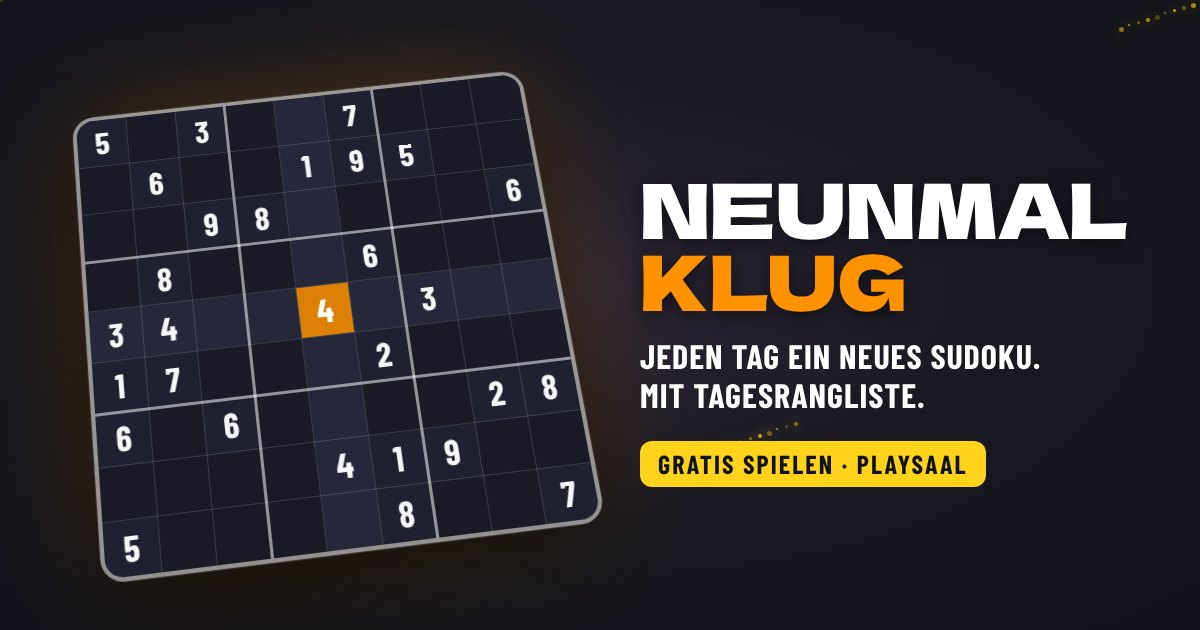
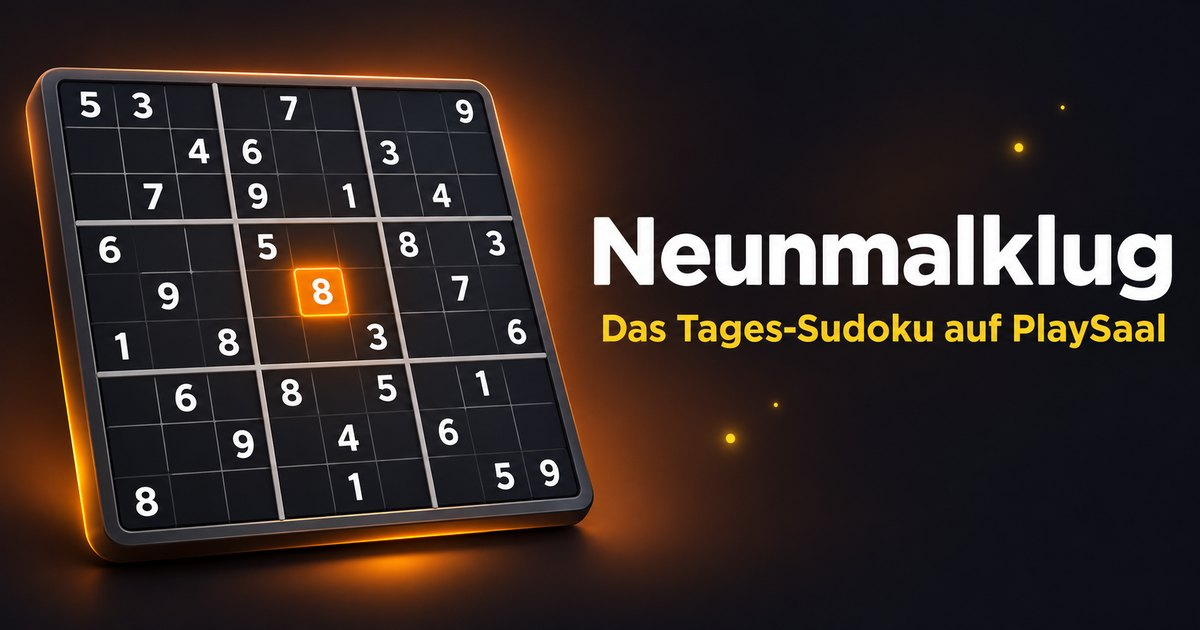
Neunmalklug: Kachel (animiert) und Teilen-Bild von ChatGPT
Kachel aus dem gelieferten GIF als animiertes WebP (720 x 720, ~160 KB),
Teilen-Vorschau aus dem gelieferten Bild mit Schriftzug (1200 x 630).
Originale unter design/neunmalklug/, Umwandlung per tools/neunmalklug-cover.mjs.

Claude-Session: https://claude.ai/code/session_015CsN6PKDukn4JUJuzNRUtf

diff --git a/public/index.html b/public/index.html
@@ -245,7 +245,7 @@
     <section class="block block-neu" id="neu" aria-labelledby="neu-titel">
       <div class="block-kopf"><h2 id="neu-titel"><svg viewBox="0 0 24 24" aria-hidden="true"><path d="M9.94 15.5A2 2 0 0 0 8.5 14.06l-6.14-1.58a.5.5 0 0 1 0-.96L8.5 9.94A2 2 0 0 0 9.94 8.5l1.58-6.14a.5.5 0 0 1 .96 0L14.06 8.5a2 2 0 0 0 1.44 1.44l6.14 1.58a.5.5 0 0 1 0 .96L15.5 14.06a2 2 0 0 0-1.44 1.44l-1.58 6.14a.5.5 0 0 1-.96 0z" fill="none" stroke="currentColor" stroke-width="2" stroke-linecap="round" stroke-linejoin="round"/><path d="M20 3v4M22 5h-4M4 17v2M5 18H3" fill="none" stroke="currentColor" stroke-width="2" stroke-linecap="round" stroke-linejoin="round"/></svg> Neu</h2><p>Neu bei PlaySaal</p></div>
       <ul class="kacheln" data-lay="neu">
-      <li class="kachel" data-slug="neunmalklug" data-kategorien="raetsel" data-rec="neunmalklug" data-name="Neunmalklug" data-arten="Sudoku,Rätsel,Logik,Tagesrangliste" data-kat="neu"><a href="/spiele/neunmalklug"><img src="/bilder/neunmalklug.webp?v=1" width="720" height="720" alt="Neunmalklug: ein Sudoku-Brett mit einem leuchtend orangen Feld" decoding="async" loading="lazy"><span class="name">Neunmalklug</span><span class="badge" title="Neu">★</span></a></li>
+      <li class="kachel" data-slug="neunmalklug" data-kategorien="raetsel" data-rec="neunmalklug" data-name="Neunmalklug" data-arten="Sudoku,Rätsel,Logik,Tagesrangliste" data-kat="neu"><a href="/spiele/neunmalklug"><img src="/bilder/neunmalklug.webp?v=2" width="720" height="720" alt="Neunmalklug: ein leuchtendes Sudoku-Brett, das mittlere Feld pulsiert orange" decoding="async" loading="lazy"><span class="name">Neunmalklug</span><span class="badge" title="Neu">★</span></a></li>
       <li class="kachel" data-slug="tuff-tuff-land" data-kategorien="aufbau,kinder" data-rec="tufftuff" data-name="Tuff-Tuff-Land" data-arten="Für Kinder,3D,Eisenbahn,Bauen" data-kat="neu"><a href="/spiele/tuff-tuff-land"><img src="/bilder/tuff-tuff-land.webp" width="720" height="720" alt="Tuff-Tuff-Land: Eine blaue Dampflok mit rotem und gelbem Wagen fährt an einem Bahnhof vorbei durch eine bunte Spielzeuglandschaft" decoding="async" loading="lazy"><span class="name">Tuff-Tuff-Land</span><span class="badge" title="Neu">★</span></a></li>
       <li class="kachel" data-slug="putt-profi" data-kategorien="geschick" data-rec="puttprofi" data-name="Putt-Profi" data-arten="3D,Minigolf,Sport,Tagesrunde" data-kat="neu"><a href="/spiele/putt-profi"><img src="/bilder/putt-profi.webp?v=1" width="720" height="720" alt="Putt-Profi: Eine weiße Golfkugel rollt auf einer Minigolfbahn mit orangefarbenen Banden auf das Loch zu, dahinter eine Windmühle" decoding="async" loading="lazy"><span class="name">Putt-Profi</span><span class="badge" title="Neu">★</span></a></li>
       <li class="kachel" data-slug="texas-holdem" data-kategorien="casino" data-rec="holdem" data-name="Texas Hold'em" data-arten="Casino,Poker,Karten,Spielgeld,Nicht für Kinder" data-kat="neu"><a href="/spiele/texas-holdem"><img src="/bilder/texas-holdem.webp?v=1" width="720" height="720" alt="Texas Hold'em: Fünf offene Karten auf grünem Filz, davor zwei Asse und Chipstapel" decoding="async" loading="lazy"><span class="name">Texas Hold'em</span><span class="badge" title="Neu">★</span></a></li>

diff --git a/public/spiele/neunmalklug.html b/public/spiele/neunmalklug.html
@@ -5,7 +5,7 @@
 <link rel="canonical" href="https://playsaal.com/spiele/neunmalklug">
 <meta name="description" content="Neunmalklug: Sudoku kostenlos im Browser. Jeden Tag ein neues Sudoku für alle mit geprüfter Tagesrangliste, dazu endlos freie Rätsel in vier Stufen von Leicht bis Experte. Ohne Anmeldung, mit Notizen und Tipps.">
 <meta property="og:type" content="website"><meta property="og:site_name" content="PlaySaal"><meta property="og:title" content="NEUNMALKLUG · Tages-Sudoku mit Rangliste · PlaySaal"><meta property="og:description" content="Jeden Tag ein neues Sudoku für alle, mit Tagesrangliste. Dazu endlos freie Rätsel von Leicht bis Experte."><meta property="og:url" content="https://playsaal.com/spiele/neunmalklug"><meta property="og:locale" content="de_DE">
-<meta property="og:image" content="https://playsaal.com/bilder/neunmalklug-og.jpg"><meta property="og:image:width" content="1200"><meta property="og:image:height" content="630"><meta property="og:image:alt" content="Neunmalklug: ein Sudoku-Brett mit leuchtend orangem Feld"><meta name="twitter:image" content="https://playsaal.com/bilder/neunmalklug-og.jpg"><meta name="twitter:card" content="summary_large_image"><meta name="twitter:title" content="NEUNMALKLUG · Tages-Sudoku mit Rangliste · PlaySaal"><meta name="twitter:description" content="Jeden Tag ein neues Sudoku für alle, mit Tagesrangliste.">
+<meta property="og:image" content="https://playsaal.com/bilder/neunmalklug-og.jpg?v=2"><meta property="og:image:width" content="1200"><meta property="og:image:height" content="630"><meta property="og:image:alt" content="Neunmalklug – Das Tages-Sudoku auf PlaySaal: ein Sudoku-Brett mit leuchtend orangem Feld"><meta name="twitter:image" content="https://playsaal.com/bilder/neunmalklug-og.jpg?v=2"><meta name="twitter:card" content="summary_large_image"><meta name="twitter:title" content="NEUNMALKLUG · Tages-Sudoku mit Rangliste · PlaySaal"><meta name="twitter:description" content="Jeden Tag ein neues Sudoku für alle, mit Tagesrangliste.">
 <meta name="theme-color" content="#11121A">
 <link rel="icon" type="image/svg+xml" href="../favicon.svg"><link rel="icon" href="../favicon.ico" sizes="any">
 <link rel="icon" type="image/png" sizes="32x32" href="../favicon-32x32.png">

diff --git a/docs/NEUNMALKLUG.md b/docs/NEUNMALKLUG.md
@@ -42,7 +42,7 @@ Gleicher Ablauf wie Leitungschaos (`docs/LEITUNGSCHAOS.md`, Abschnitt 3):
 Das Spiel braucht keine Bilder. Optional:
 
 - `public/spiele/neunmalklug/img/nk-hintergrund.webp` (Hochformat, darf animiert sein): wird geladen, wenn vorhanden, und abgedunkelt. Bei „weniger Bewegung“ bleibt nur der Verlauf. Ein GIF vorher in animiertes WebP umwandeln (viel kleiner, mehr Farben), z. B. `python3 -c "from PIL import Image; Image.open('in.gif').save('nk-hintergrund.webp', save_all=True, quality=70, method=6)"`.
-- Kachel und Teilen-Bild: ChatGPT-Bilder **ohne Schrift** als `design/neunmalklug/nk-kachel.png` (1:1) und `design/neunmalklug/nk-social.png` (Querformat, Motiv links, rechts Platz für den Schriftzug), dann `node tools/neunmalklug-cover.mjs`. Ohne diese Dateien zeichnet das Skript ein Sudoku-Brett in den PlaySaal-Farben (Stand 05.11.: gezeichnete Fassung).
+- Kachel und Teilen-Bild (Stand 05.11.2026, von ChatGPT): `design/neunmalklug/nk-kachel.gif` (508 × 508, 6 Bilder, pulsierendes Mittelfeld) wird zur **animierten** Kachel `public/bilder/neunmalklug.webp` (720 × 720, ~160 KB); `design/neunmalklug/nk-social.png` hat den Schriftzug „Neunmalklug – Das Tages-Sudoku auf PlaySaal“ schon im Bild (richtig geschrieben) und wird nur auf 1200 × 630 verkleinert. Umwandeln: `node tools/neunmalklug-cover.mjs`. Bei neuen Bildern Versionsnummer `?v=` in `index.html` bzw. `og:image` erhöhen.
 
 ## 4. Tests
 
